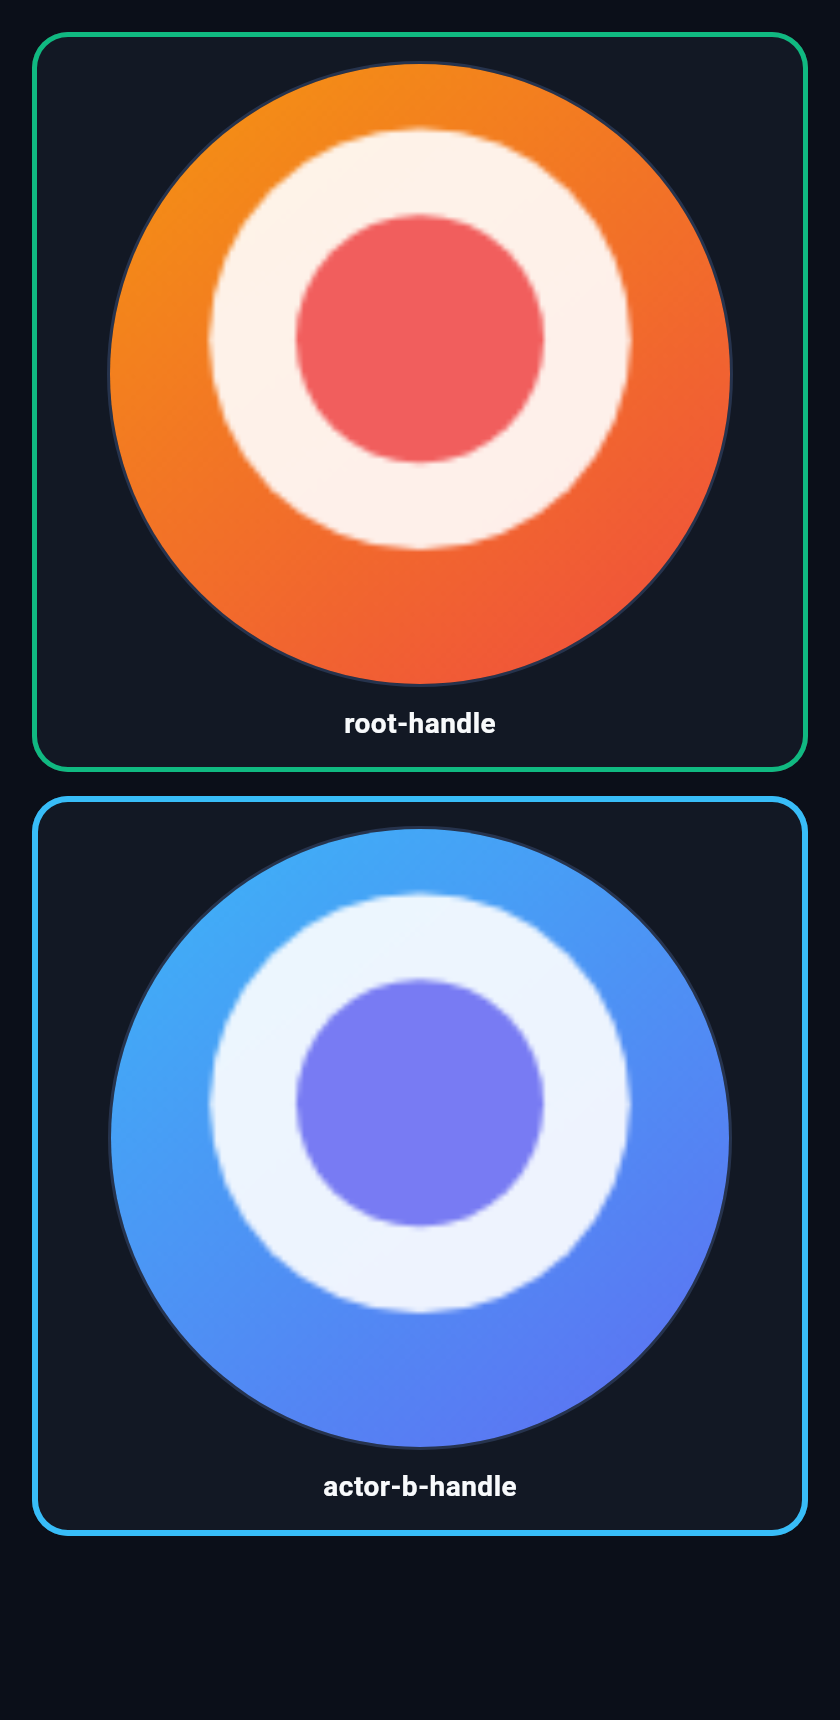
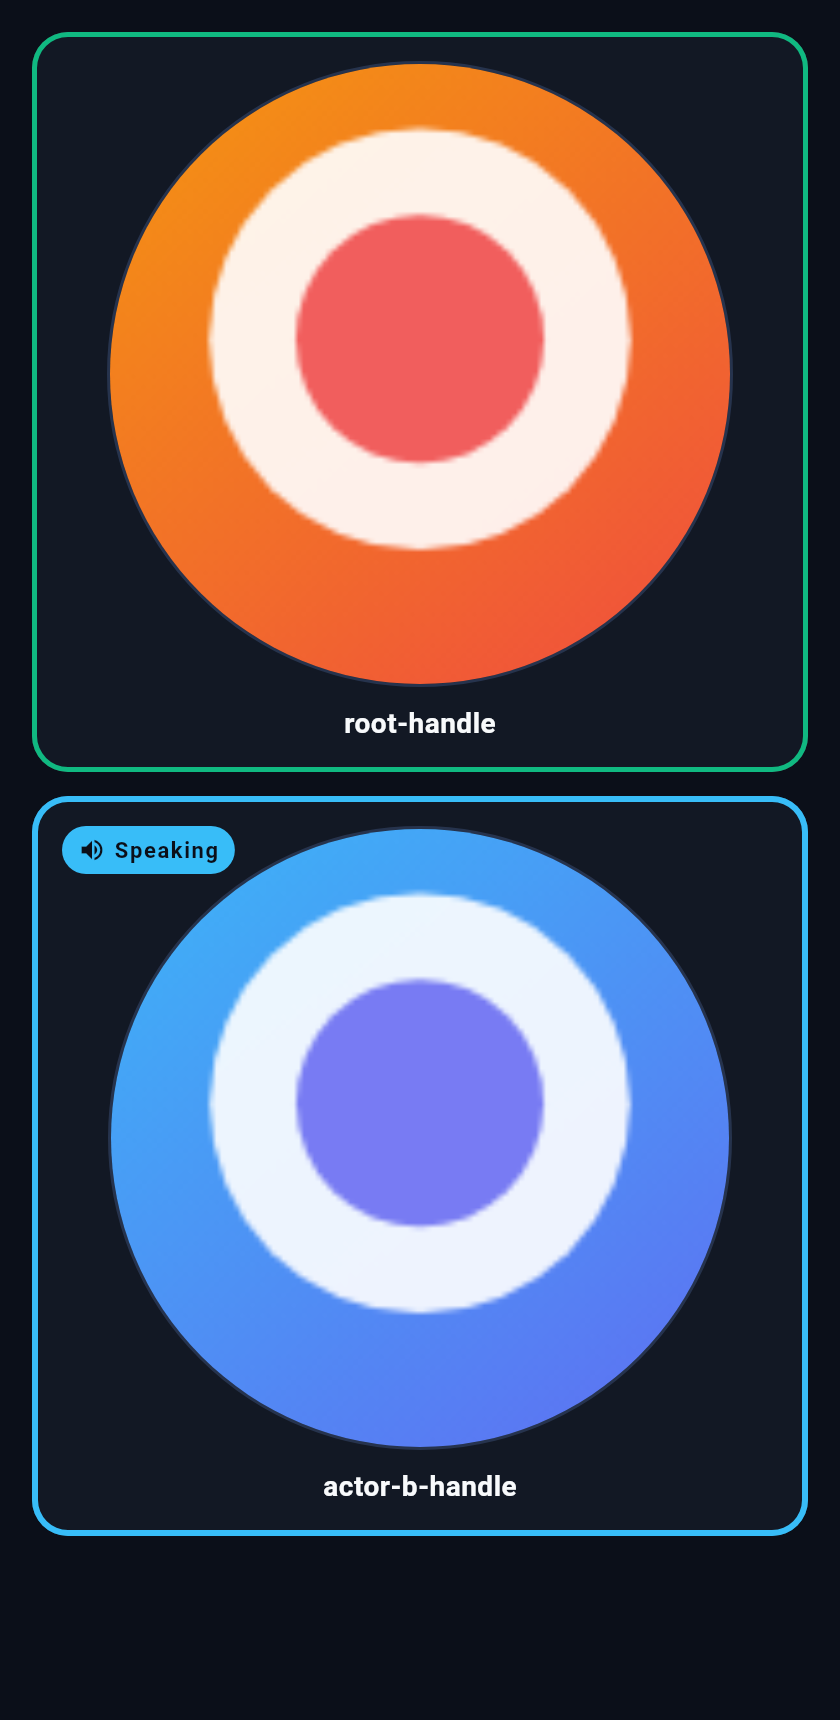
Room tile: Speaking corner badge and small-screen screenshots (#816)
Per operator feedback on #825: a speaking actor's tile shows a "Speaking"
pill in the top-left corner over the avatar, styled like the REC badge,
so it takes no height from the avatar. The two badges share one widget.

Adds idle/recording/speaking screenshots of the real dashboard body with
three actors at ~411x485 logical px, a flip-phone cover screen.

Changed region(s): [[0.0619, 0.4622, 0.2786, 0.5238]]

diff --git a/packages/rusa/flutter_dashboard/test/chat_room_small_screen_screenshot_test.dart b/packages/rusa/flutter_dashboard/test/chat_room_small_screen_screenshot_test.dart
@@ -1,0 +1,135 @@
+// Rendered review artifacts for the Room on a small phone screen (#825
+// operator feedback). Run with:
+//
+//   flutter test test/chat_room_small_screen_screenshot_test.dart
+//
+// It writes `flutter_dashboard/screenshots/chat_room_small_three_<state>.png`:
+// the real dashboard body, phone header included, on the Room with three
+// actors, idle, recording and speaking. The viewport approximates a flip
+// phone's cover screen: a 1080x1272 px panel at an assumed device pixel ratio
+// of 2.625 is about 411x485 logical px.
+
+import 'dart:io';
+
+import 'package:flutter/material.dart';
+import 'package:flutter_test/flutter_test.dart';
+import 'package:rusa_dashboard/models.dart';
+import 'package:rusa_dashboard/store.dart';
+import 'package:rusa_dashboard/theme.dart';
+import 'package:rusa_dashboard/widgets/chat_room.dart';
+import 'package:rusa_dashboard/widgets/dashboard_body.dart';
+
+import 'fakes.dart';
+import 'screenshot_support.dart';
+
+final String _outDir = '${Directory.current.path}/screenshots';
+const _actorIds = ['root', 'actor-b', 'actor-c'];
+const _coverScreen = Size(411, 485);
+
+enum _Shot { idle, recording, speaking }
+
+void main() {
+  setUpAll(loadFonts);
+
+  for (final shot in _Shot.values) {
+    testWidgets('renders the three-actor Room on a small screen ${shot.name}', (
+      tester,
+    ) async {
+      await tester.runAsync(() async {
+        HttpOverrides.global = FakeImageHttpOverrides(
+          await portraits(_actorIds),
+        );
+        addTearDown(() => HttpOverrides.global = null);
+        addTearDown(() => tester.binding.setSurfaceSize(null));
+
+        final api = FakeApi()
+          ..threadsResult = [
+            makeThread('root', voiceName: 'Puck', runState: RunState.running),
+            makeThread('actor-b', voiceName: 'Kore', runState: RunState.queued),
+            makeThread('actor-c', voiceName: 'Fenrir'),
+          ];
+        final walkie = FakeWalkie(api);
+        final store = DashboardStore(
+          api: api,
+          stream: FakeStream(),
+          walkie: walkie.deps,
+        );
+        api.chatRoomParticipants = _actorIds;
+        await store.refreshThreads();
+        addTearDown(store.dispose);
+
+        final key = GlobalKey();
+        await tester.binding.setSurfaceSize(_coverScreen);
+        await tester.pumpWidget(
+          MaterialApp(
+            debugShowCheckedModeBanner: false,
+            theme: buildMeshTheme(),
+            home: Scaffold(
+              backgroundColor: MeshColors.bgPrimary,
+              body: RepaintBoundary(
+                key: key,
+                child: DashboardBody(store: store),
+              ),
+            ),
+          ),
+        );
+        // On a phone the destinations live in the drawer behind the header's
+        // hamburger.
+        await tester.tap(find.byIcon(Icons.menu));
+        await tester.pump();
+        await tester.pump(const Duration(milliseconds: 400));
+        await tester.tap(find.byKey(const ValueKey('drawer-nav-chatRoom')));
+        await tester.pump();
+        await tester.pump(const Duration(milliseconds: 400));
+        await settleImages(tester, portraitUrls(_actorIds));
+        expect(find.byType(ChatRoomTab), findsOneWidget);
+
+        switch (shot) {
+          case _Shot.idle:
+            break;
+          case _Shot.recording:
+            await tester.tap(
+              find.byKey(const ValueKey('chat-room-avatar-actor-b')),
+            );
+            await tester.pump();
+            await tester.pump();
+            expect(
+              find.byKey(const ValueKey('chat-room-recording-badge')),
+              findsOneWidget,
+            );
+          case _Shot.speaking:
+            // The first tap enters room presence and starts a capture; cancel
+            // it so the queued reply can play.
+            await tester.tap(
+              find.byKey(const ValueKey('chat-room-avatar-root')),
+            );
+            await tester.pump();
+            await tester.pump();
+            await tester.tap(find.byKey(const ValueKey('chat-room-cancel')));
+            await tester.pump();
+            await tester.pump();
+            walkie.stream.framesCtrl.add(
+              makeAnnouncement('reply-a', actor: 'actor-b'),
+            );
+            await tester.pump();
+            await tester.pump();
+            expect(
+              find.byKey(const ValueKey('chat-room-speaking-badge')),
+              findsOneWidget,
+            );
+        }
+        // Let the tile's 180ms border animation finish.
+        await tester.pump(const Duration(milliseconds: 250));
+
+        for (final id in _actorIds) {
+          expect(find.byKey(ValueKey('chat-room-avatar-$id')), findsOneWidget);
+        }
+        await captureBoundary(
+          key,
+          '$_outDir/chat_room_small_three_${shot.name}.png',
+        );
+        expect(tester.takeException(), isNull);
+      });
+    });
+  }
+}

diff --git a/packages/rusa/flutter_dashboard/lib/widgets/chat_room.dart b/packages/rusa/flutter_dashboard/lib/widgets/chat_room.dart
@@ -463,13 +463,35 @@ class _RoomAvatarButton extends StatelessWidget {
                     ),
                     // The tile shows only the avatar and name (#825 operator
                     // feedback), so the avatar takes the height a second line
-                    // would hold; speaking is marked by the border alone.
+                    // would hold; badges overlay the corners instead.
                   ],
                 ),
                 // The border belongs to the actor's run state, so the capture
                 // this tile is recording is marked by a badge instead.
                 if (recording)
-                  const Positioned(top: 0, right: 0, child: _RecordingBadge()),
+                  const Positioned(
+                    top: 0,
+                    right: 0,
+                    child: _TileBadge(
+                      key: ValueKey('chat-room-recording-badge'),
+                      icon: Icons.mic,
+                      label: 'REC',
+                      background: MeshColors.statusHalted,
+                      foreground: MeshColors.textPrimary,
+                    ),
+                  ),
+                if (speaking)
+                  const Positioned(
+                    top: 0,
+                    left: 0,
+                    child: _TileBadge(
+                      key: ValueKey('chat-room-speaking-badge'),
+                      icon: Icons.volume_up,
+                      label: 'Speaking',
+                      background: MeshColors.accent,
+                      foreground: MeshColors.bgPrimary,
+                    ),
+                  ),
               ],
             ),
           ),
@@ -479,26 +501,38 @@ class _RoomAvatarButton extends StatelessWidget {
   }
 }
 
-class _RecordingBadge extends StatelessWidget {
-  const _RecordingBadge();
+/// A pill in a tile corner. It overlays the avatar, so showing or hiding it
+/// never moves or resizes the tile's contents.
+class _TileBadge extends StatelessWidget {
+  const _TileBadge({
+    super.key,
+    required this.icon,
+    required this.label,
+    required this.background,
+    required this.foreground,
+  });
+
+  final IconData icon;
+  final String label;
+  final Color background;
+  final Color foreground;
 
   @override
   Widget build(BuildContext context) => Container(
-    key: const ValueKey('chat-room-recording-badge'),
     padding: const EdgeInsets.symmetric(horizontal: 8, vertical: 4),
     decoration: BoxDecoration(
-      color: MeshColors.statusHalted,
+      color: background,
       borderRadius: BorderRadius.circular(999),
     ),
-    child: const Row(
+    child: Row(
       mainAxisSize: MainAxisSize.min,
       children: [
-        Icon(Icons.mic, size: 14, color: MeshColors.textPrimary),
-        SizedBox(width: 4),
+        Icon(icon, size: 14, color: foreground),
+        const SizedBox(width: 4),
         Text(
-          'REC',
+          label,
           style: TextStyle(
-            color: MeshColors.textPrimary,
+            color: foreground,
             fontSize: 11,
             fontWeight: FontWeight.w800,
             letterSpacing: 0.8,

diff --git a/packages/rusa/flutter_dashboard/test/chat_room_widget_test.dart b/packages/rusa/flutter_dashboard/test/chat_room_widget_test.dart
@@ -327,9 +327,17 @@ void main() {
         );
         await tester.pump();
         await tester.pump();
-        // Speaking is shown by the border alone; no line is added under the
-        // name, so the avatar does not shrink or move while the actor speaks.
-        expect(find.text('Speaking'), findsNothing);
+        // Speaking is marked by the border and a corner badge over the
+        // avatar (#825 operator feedback); no line is added under the name,
+        // so the avatar does not shrink or move while the actor speaks.
+        expect(
+          find.descendant(
+            of: find.byKey(const ValueKey('chat-room-avatar-actor-b')),
+            matching: find.byKey(const ValueKey('chat-room-speaking-badge')),
+          ),
+          findsOneWidget,
+        );
+        expect(find.text('Speaking'), findsOneWidget);
         expect(borderOf(tester, 'actor-b'), MeshColors.accent);
         expect(avatarRect(tester, 'actor-b'), quietAvatar);
         expect(borderOf(tester, 'root'), MeshColors.border);
@@ -337,6 +345,10 @@ void main() {
         walkie.player.finishCurrent();
         await tester.pump();
         await tester.pump();
+        expect(
+          find.byKey(const ValueKey('chat-room-speaking-badge')),
+          findsNothing,
+        );
         expect(find.text('Speaking'), findsNothing);
         expect(borderOf(tester, 'actor-b'), MeshColors.statusQueued);
         expect(avatarRect(tester, 'actor-b'), quietAvatar);

diff --git a/packages/rusa/flutter_dashboard/test/chat_room_screenshot_test.dart b/packages/rusa/flutter_dashboard/test/chat_room_screenshot_test.dart
@@ -82,8 +82,8 @@ void main() {
       // speaking ring rather than a mid-transition blend.
       await tester.pump(const Duration(milliseconds: 250));
 
-      // Reply A is speaking: its tile carries the speaking border (#803),
-      // with no text line added under the name (#825).
+      // Reply A is speaking: its tile carries the speaking border (#803) and
+      // a corner badge over the avatar, not a line under the name (#825).
       final rootTile = tester.widget<AnimatedContainer>(
         find.descendant(
           of: find.byKey(const ValueKey('chat-room-avatar-root')),
@@ -94,7 +94,13 @@ void main() {
         ((rootTile.decoration! as BoxDecoration).border! as Border).top.color,
         MeshColors.accent,
       );
-      expect(find.text('Speaking'), findsNothing);
+      expect(
+        find.descendant(
+          of: find.byKey(const ValueKey('chat-room-avatar-root')),
+          matching: find.byKey(const ValueKey('chat-room-speaking-badge')),
+        ),
+        findsOneWidget,
+      );
       // Reply B waits in the shared queue; the room no longer has a header to
       // count it in (#803).
       expect(find.text('CHAT ROOM'), findsNothing);
